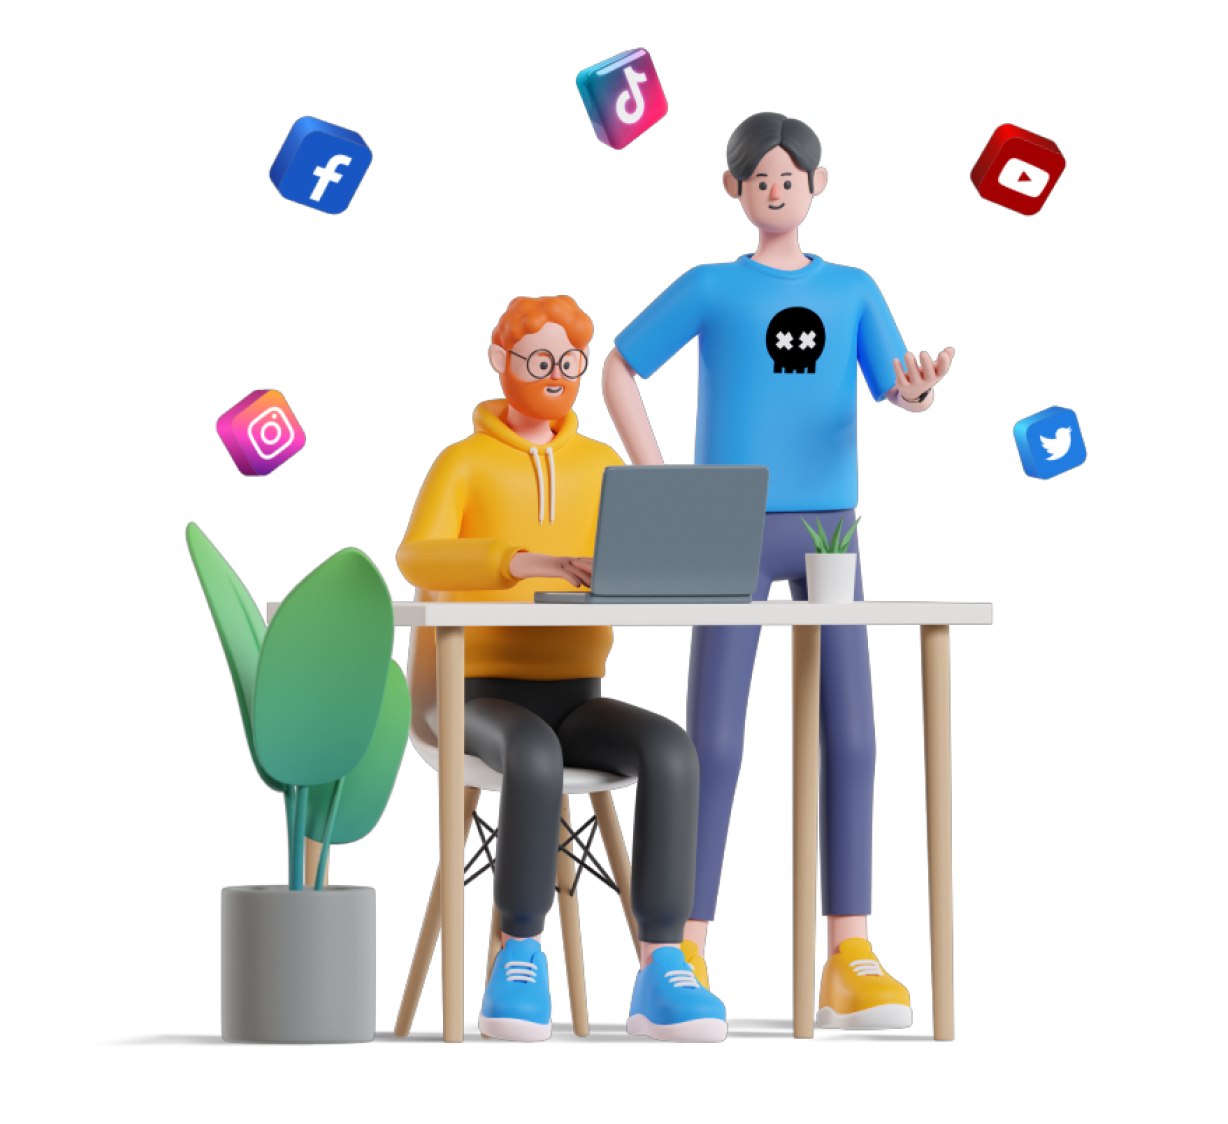
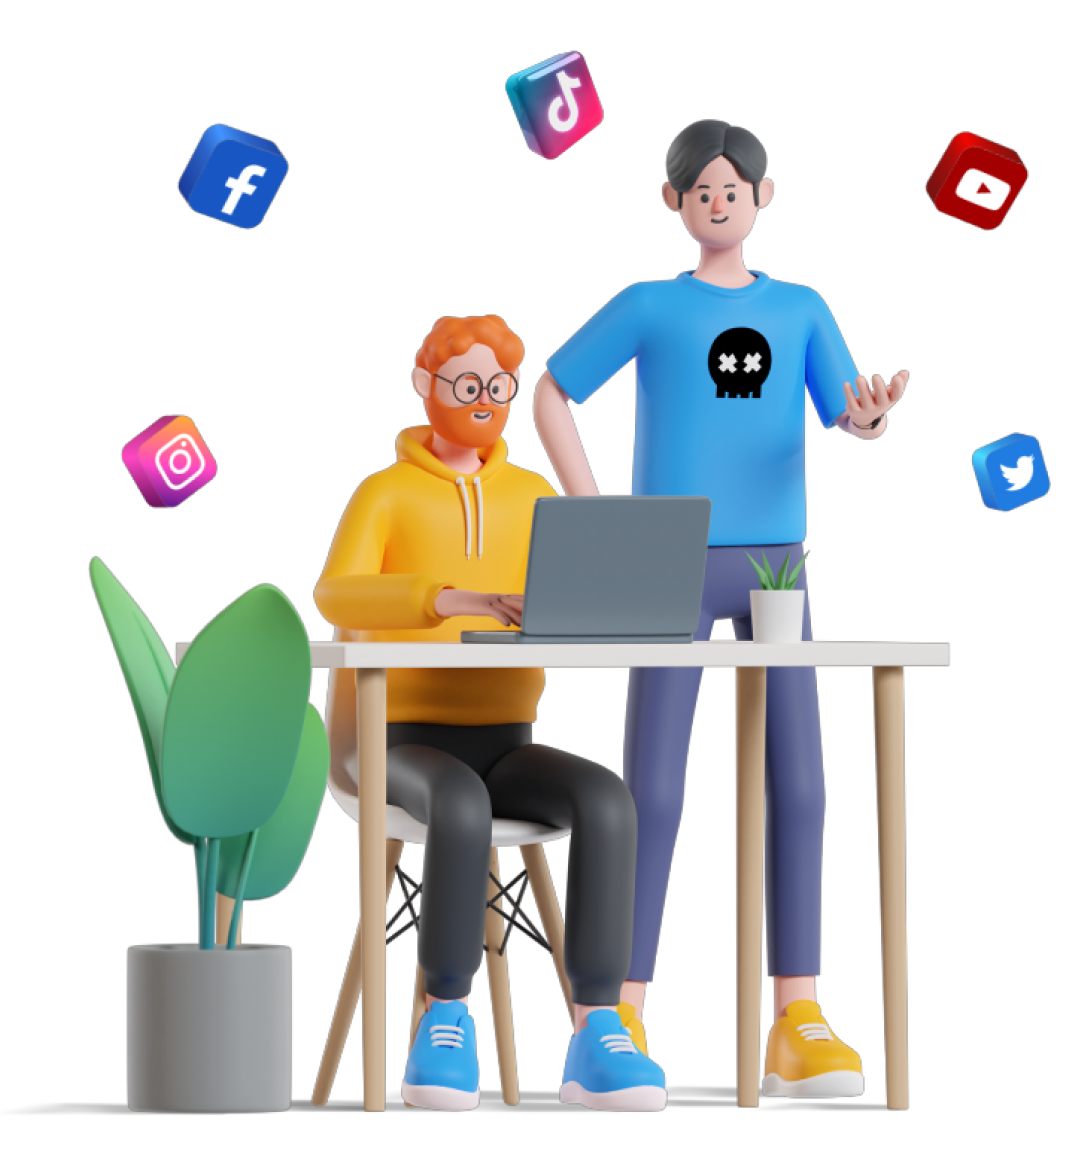
Pushed from Locofy Builder

diff --git a/src/pages/ImFucked4.module.css b/src/pages/ImFucked4.module.css
@@ -2926,7 +2926,9 @@
     justify-content: center;
   }
   .frameGroup {
-    gap: var(--gap-51xl);
+    gap: var(--gap-131xl);
+    padding-left: var(--padding-31xl);
+    box-sizing: border-box;
     scale: 0.85;
     margin-left: -20;
   }
@@ -2942,12 +2944,10 @@
   }
   .main {
     flex-direction: column;
-    gap: 100px;
+    gap: var(--gap-131xl);
     align-items: center;
     justify-content: center;
-    padding-left: 0;
-    padding-right: 0;
-    padding-bottom: 450px;
+    padding: var(--padding-21xl) 0 400px;
     box-sizing: border-box;
   }
   .bodyChild {

diff --git a/src/global.css b/src/global.css
@@ -94,7 +94,7 @@ body {
   --gap-10xl: 29px;
   --gap-76xl: 95px;
   --gap-17xl: 36px;
-  --gap-51xl: 70px;
+  --gap-131xl: 150px;
   --gap-6xs: 7px;
   --gap-9xl: 28px;
   --gap-8xs: 5px;

diff --git a/src/pages/ImFucked3.module.css b/src/pages/ImFucked3.module.css
@@ -2938,7 +2938,7 @@
     justify-content: center;
   }
   .frameGroup {
-    gap: var(--gap-51xl);
+    gap: 70px;
     scale: 0.85;
     margin-left: -20;
   }
